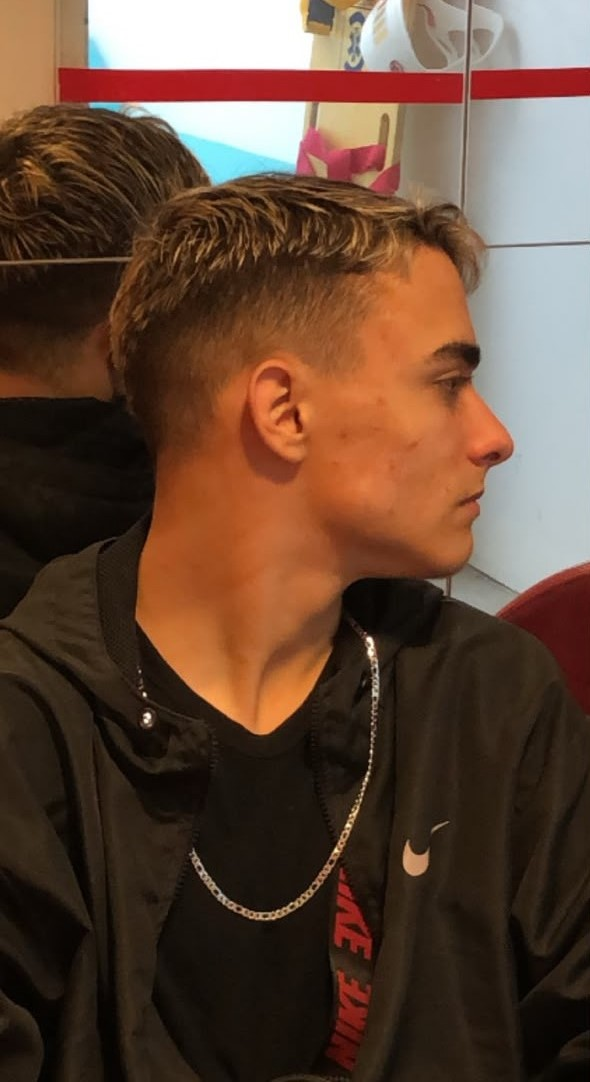
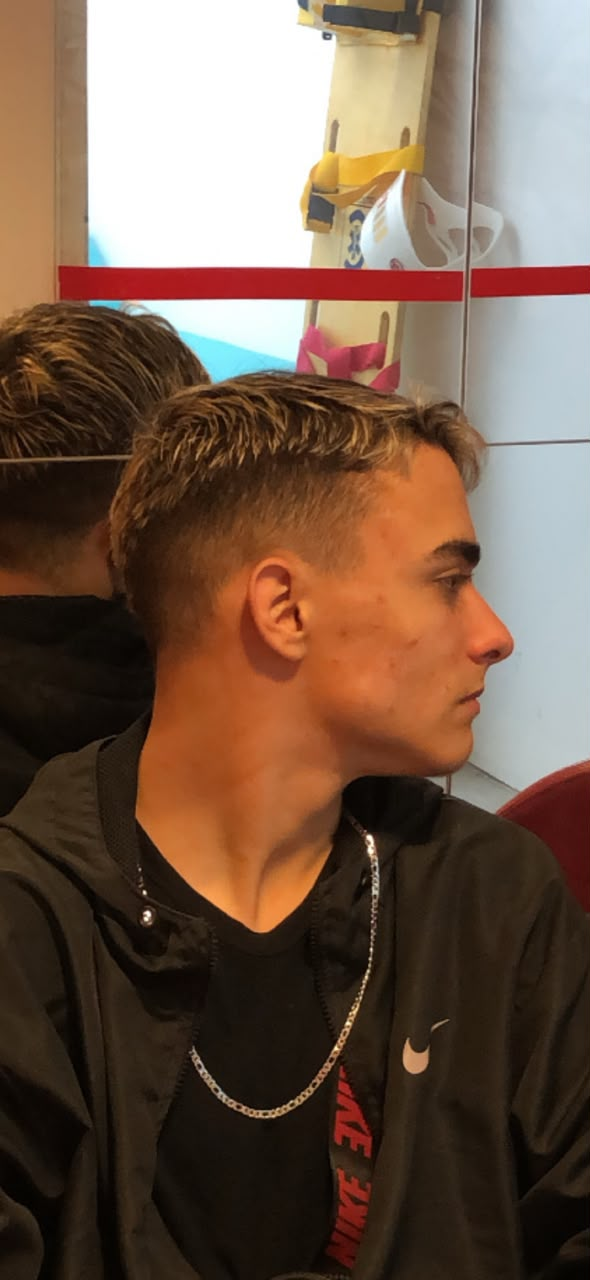
Edher
Melhorias

diff --git a/index.html b/index.html
@@ -197,7 +197,7 @@
   .ba-stage{position:relative;border-radius:26px;overflow:hidden;border:1px solid var(--line-strong);aspect-ratio:4/5;max-width:440px;margin-inline:auto;background:#0a0406}
   .ba-stage + .ba-stage{margin-top:clamp(24px,5vw,44px)}
   .ba-layer{position:absolute;inset:0;display:grid;place-items:center}
-  .ba-img{position:absolute;inset:0;width:100%;height:100%;object-fit:cover;object-position:50% 22%}
+  .ba-img{position:absolute;inset:0;background-repeat:no-repeat;background-position:50% 25%;background-size:cover}
   .ba-before .ba-img{filter:grayscale(.35) contrast(.96) brightness(.94)}
   .figure{position:relative;width:min(38%,240px);aspect-ratio:3/5;border-radius:120px 120px 40px 40px}
   .ba-before{background:linear-gradient(180deg,#161014,#0b080b)}
@@ -437,49 +437,13 @@
       <h2>5 áreas, <em>um</em> glow up de verdade</h2>
     </div>
     <p class="lead" style="margin-top:-14px;margin-bottom:clamp(26px,5vw,50px)" data-reveal>As 5 áreas do seu glow up: <b style="color:var(--ink)">skincare, cabelo, corpo, estilo e mente</b>. Um passo de cada vez, sem enrolação.</p>
-    <div class="method-grid" id="methodGrid">
-      <article class="pillar" data-reveal>
-        <span class="num">01</span>
-        <span class="ic"><svg viewBox="0 0 24 24" fill="none"><path d="M12 3s6 6.6 6 11a6 6 0 0 1-12 0c0-4.4 6-11 6-11Z" stroke="currentColor" stroke-width="1.6"/></svg></span>
-        <h3>Skincare</h3>
-        <p>Rotina de pele descomplicada. É aquele glow que todo mundo nota de longe.</p>
-      </article>
-      <article class="pillar d1" data-reveal>
-        <span class="num">02</span>
-        <span class="ic"><svg viewBox="0 0 24 24" fill="none"><path d="M4 14c0-6 4-10 8-10s8 4 8 10c0 3-2 6-8 6s-8-3-8-6Z" stroke="currentColor" stroke-width="1.6"/><path d="M9 20v-3M15 20v-3" stroke="currentColor" stroke-width="1.6" stroke-linecap="round"/></svg></span>
-        <h3>Cabelo &amp; corte</h3>
-        <p>O corte certo pro seu rosto e como manter. É o detalhe que muda tudo — real.</p>
-      </article>
-      <article class="pillar d2" data-reveal>
-        <span class="num">03</span>
-        <span class="ic"><svg viewBox="0 0 24 24" fill="none"><path d="M6 4v4M18 4v4M6 16v4M18 16v4M6 8h12M6 16h12M4 8h4M16 8h4M4 16h4M16 16h4" stroke="currentColor" stroke-width="1.6" stroke-linecap="round"/></svg></span>
-        <h3>Corpo &amp; treino</h3>
-        <p>Treino que cabe na sua rotina. Mais postura, mais presença, zero desculpa.</p>
-      </article>
-      <article class="pillar" data-reveal>
-        <span class="num">04</span>
-        <span class="ic"><svg viewBox="0 0 24 24" fill="none"><path d="M12 3l2 6h6l-5 4 2 6-5-4-5 4 2-6-5-4h6l2-6Z" stroke="currentColor" stroke-width="1.6" stroke-linejoin="round"/></svg></span>
-        <h3>Estilo &amp; imagem</h3>
-        <p>Roupas e cores que são a sua cara. Estiloso sem gastar rios de dinheiro.</p>
-      </article>
-      <article class="pillar d1" data-reveal>
-        <span class="num">05</span>
-        <span class="ic"><svg viewBox="0 0 24 24" fill="none"><path d="M12 4a5 5 0 0 1 5 5c0 2-1 3-2 4v3H9v-3c-1-1-2-2-2-4a5 5 0 0 1 5-5Z" stroke="currentColor" stroke-width="1.6" stroke-linejoin="round"/><path d="M9.5 20h5" stroke="currentColor" stroke-width="1.6" stroke-linecap="round"/></svg></span>
-        <h3>Mente &amp; confiança</h3>
-        <p>A base do glow up: hábitos, foco e confiança pra segurar tudo.</p>
-      </article>
-      <article class="pillar d2" data-reveal style="display:grid;place-content:center;text-align:center;background:linear-gradient(150deg,rgba(255,35,51,.18),rgba(176,13,28,.08))">
-        <div class="serif" style="font-size:1.6rem;color:var(--red-soft)">+ acompanhamento<br>e comunidade</div>
-        <p style="margin-top:10px;color:var(--ink-dim);transform:none">Você nunca faz sozinho.</p>
-      </article>
-    </div>
   </section>
 
   <!-- PAREDE VIVA — COLETÂNEA DE VÍDEOS -->
   <section class="wrap" id="videos">
     <div class="shead" data-reveal>
       <span class="eyebrow">Provas reais</span>
-      <h2>Vê com os <em>próprios olhos</em></h2>
+      <h2>Veja com os <em>próprios olhos</em></h2>
     </div>
     <p class="lead" style="margin-top:-14px;margin-bottom:clamp(24px,4vw,40px)" data-reveal>Transformações de gente de verdade — uma por área. Arrasta pro lado e escolhe o que quer ver.</p>
 
@@ -540,16 +504,16 @@
       <h2>Role e veja o <em>depois</em> aparecer</h2>
     </div>
     <div class="ba-stage" data-reveal data-antes="assets/par1-antes.jpg" data-depois="assets/par1-depois.jpg">
-      <div class="ba-layer ba-before"><div class="figure"></div><img class="ba-img ba-img-before" alt="Antes da transformação" decoding="async" /></div>
-      <div class="ba-layer ba-after"><div class="figure"></div><img class="ba-img ba-img-after" alt="Depois da transformação" decoding="async" /></div>
+      <div class="ba-layer ba-before"><div class="figure"></div><div class="ba-img ba-img-before" role="img" aria-label="Antes da transformação" style="background-position:50% 7%;background-size:192%"></div></div>
+      <div class="ba-layer ba-after"><div class="figure"></div><div class="ba-img ba-img-after" role="img" aria-label="Depois da transformação" style="background-position:50% 30%;background-size:100%"></div></div>
       <button type="button" class="ba-tag b ba-antes" aria-pressed="false">Antes</button>
       <button type="button" class="ba-tag a ba-depois" aria-pressed="false">Depois</button>
       <div class="ba-handle"><svg class="ba-grip" viewBox="0 0 24 24" fill="none" aria-hidden="true"><path d="M9.5 8l-4 4 4 4M14.5 8l4 4-4 4" stroke="currentColor" stroke-width="2" stroke-linecap="round" stroke-linejoin="round"/></svg></div>
     </div>
 
     <div class="ba-stage" data-reveal data-antes="assets/par2-antes.jpg" data-depois="assets/par2-depois.jpg">
-      <div class="ba-layer ba-before"><div class="figure"></div><img class="ba-img ba-img-before" alt="Antes da transformação" decoding="async" /></div>
-      <div class="ba-layer ba-after"><div class="figure"></div><img class="ba-img ba-img-after" alt="Depois da transformação" decoding="async" /></div>
+      <div class="ba-layer ba-before"><div class="figure"></div><div class="ba-img ba-img-before" role="img" aria-label="Antes da transformação" style="background-position:50% 49%;background-size:110%"></div></div>
+      <div class="ba-layer ba-after"><div class="figure"></div><div class="ba-img ba-img-after" role="img" aria-label="Depois da transformação" style="background-position:50% 30%;background-size:100%"></div></div>
       <button type="button" class="ba-tag b ba-antes" aria-pressed="false">Antes</button>
       <button type="button" class="ba-tag a ba-depois" aria-pressed="false">Depois</button>
       <div class="ba-handle"><svg class="ba-grip" viewBox="0 0 24 24" fill="none" aria-hidden="true"><path d="M9.5 8l-4 4 4 4M14.5 8l4 4-4 4" stroke="currentColor" stroke-width="2" stroke-linecap="round" stroke-linejoin="round"/></svg></div>
@@ -838,7 +802,7 @@
      "varying float vD; varying float vR; varying vec2 vC;",
      "void main(){",
      " vec3 ac=aCenter;",
-     " float az=atan(ac.z, ac.x);",              // agrupa a longitude em 5 constelações
+     " float az=atan(ac.z, ac.x+0.0001);",       // agrupa a longitude em 5 constelações (guarda contra (0,0))
      " float sect=1.2566371;",                   // 2π/5
      " float naz=mix(az, floor(az/sect+0.5)*sect, uCluster*0.85);",
      " float hor=length(vec2(ac.x, ac.z));",
@@ -873,32 +837,29 @@
      " float a=soft*(0.14+0.66*vD)*(0.55+0.6*shell)*uAlpha;",
      " gl_FragColor=vec4(col,a);",
      "}"].join("\n");
-    function sh(t,s){ var o=g.createShader(t); g.shaderSource(o,s); g.compileShader(o); return g.getShaderParameter(o,g.COMPILE_STATUS)?o:null; }
+    function sh(t,s){ var o=g.createShader(t); g.shaderSource(o,s); g.compileShader(o);
+      if(!g.getShaderParameter(o,g.COMPILE_STATUS)){ try{ console.warn("hero3d shader falhou:", g.getShaderInfoLog(o)); }catch(_){} return null; } return o; }
     var v=sh(g.VERTEX_SHADER,vsrc), f=sh(g.FRAGMENT_SHADER,fsrc);
     if(!v||!f){ c.style.display="none"; return; }
     var pr=g.createProgram(); g.attachShader(pr,v); g.attachShader(pr,f); g.linkProgram(pr);
-    if(!g.getProgramParameter(pr,g.LINK_STATUS)){ c.style.display="none"; return; }
+    if(!g.getProgramParameter(pr,g.LINK_STATUS)){ try{ console.warn("hero3d link falhou:", g.getProgramInfoLog(pr)); }catch(_){} c.style.display="none"; return; }
     g.useProgram(pr);
     // cada partícula = 2 triângulos (6 vértices)
-    var N=isTouch?2600:10000;
+    var N=isTouch?2600:17000;
     var corners=[-1,-1, 1,-1, -1,1,  -1,1, 1,-1, 1,1];
     var V=N*6;
     var aCenter=new Float32Array(V*3), aCorner=new Float32Array(V*2), aSeed=new Float32Array(V), aPrism=new Float32Array(V*3);
-    // prisma triangular: triângulo equilátero no plano XY, extrudado ao longo de Z
-    var PR=0.98, PD=0.62;
-    var TAx=0, TAy=PR, TBx=-PR*0.8660254, TBy=-PR*0.5, TCx=PR*0.8660254, TCy=-PR*0.5;
+    // bipirâmide triangular: triângulo equilátero (equador no plano XZ) + 2 ápices em ±Y
+    var BR=0.86, BH=1.12;
+    var be0=[BR,0,0], be1=[-BR*0.5,0,BR*0.8660254], be2=[-BR*0.5,0,-BR*0.8660254];
+    var bAp=[0,BH,0], bBp=[0,-BH,0];
+    var BF=[ [be0,be1,bAp],[be1,be2,bAp],[be2,be0,bAp], [be1,be0,bBp],[be2,be1,bBp],[be0,be2,bBp] ]; // 6 faces triangulares
     function prismPoint(){
-      var x,y,z;
-      if(Math.random()<0.26){                       // tampas triangulares (frente/trás)
-        var u=Math.random(), vv=Math.random(); if(u+vv>1){ u=1-u; vv=1-vv; }
-        x=TAx+(TBx-TAx)*u+(TCx-TAx)*vv; y=TAy+(TBy-TAy)*u+(TCy-TAy)*vv;
-        z=(Math.random()<0.5?-PD:PD);
-      } else {                                       // 3 faces retangulares laterais
-        var e=Math.floor(Math.random()*3), x0,y0,x1,y1;
-        if(e===0){ x0=TAx;y0=TAy;x1=TBx;y1=TBy; } else if(e===1){ x0=TBx;y0=TBy;x1=TCx;y1=TCy; } else { x0=TCx;y0=TCy;x1=TAx;y1=TAy; }
-        var t=Math.random(); x=x0+(x1-x0)*t; y=y0+(y1-y0)*t; z=-PD+Math.random()*2*PD;
-      }
-      return [x,y,z];
+      var f=BF[(Math.random()*6)|0], P0=f[0],P1=f[1],P2=f[2];
+      var u=Math.random(), v=Math.random(); if(u+v>1){ u=1-u; v=1-v; }
+      return [ P0[0]+(P1[0]-P0[0])*u+(P2[0]-P0[0])*v,
+               P0[1]+(P1[1]-P0[1])*u+(P2[1]-P0[1])*v,
+               P0[2]+(P1[2]-P0[2])*u+(P2[2]-P0[2])*v ];
     }
     for(var i=0;i<N;i++){
       var y=1-(i/(N-1))*2, rad=Math.sqrt(Math.max(0.0,1-y*y)), th=i*2.399963, rr=0.62+0.38*Math.random();
@@ -918,8 +879,8 @@
         uT=g.getUniformLocation(pr,"uTime"), uAlpha=g.getUniformLocation(pr,"uAlpha"),
         uDisp=g.getUniformLocation(pr,"uDisp"), uPrism=g.getUniformLocation(pr,"uPrism"), uSwirl=g.getUniformLocation(pr,"uSwirl"), uCluster=g.getUniformLocation(pr,"uCluster");
     g.enable(g.BLEND); g.blendFunc(g.SRC_ALPHA,g.ONE); g.clearColor(0,0,0,0);
-    var gdpr=Math.min(window.devicePixelRatio||1, isTouch?1.25:1.5), gscale=isTouch?0.7:0.85, R=0.95, sx=R, sy=R, aspect=1, pr_ndc=0.02;
-    var basePx=isTouch?5.2:7.5;   // diâmetro da partícula em px de buffer
+    var gdpr=Math.min(window.devicePixelRatio||1, isTouch?1.25:2), gscale=isTouch?0.7:1.0, R=0.95, sx=R, sy=R, aspect=1, pr_ndc=0.02;
+    var basePx=isTouch?5.2:(10*gdpr);   // diâmetro da partícula em px de buffer (escala com o DPI → nitidez constante)
     function gres(){ var w=Math.max(1,Math.floor(c.clientWidth*gdpr*gscale)), h=Math.max(1,Math.floor(c.clientHeight*gdpr*gscale));
       c.width=w; c.height=h; g.viewport(0,0,w,h); aspect=w/h;
       if(w>=h){ sx=R*h/w; sy=R; } else { sx=R; sy=R*w/h; }
@@ -938,15 +899,15 @@
       /* progCur (0..1) é o scroll global — dita a coreografia da esfera por capítulo */
       var P=progCur;
       var disp=0.62*sstep(0.05,0.40,P)*(1.0-sstep(0.58,0.95,P)); // dispersa no meio, reforma nas pontas
-      var prism=sstep(0.60,0.95,P);                               // condensa num prisma no fim da página
-      var swirl=(0.12+P*1.5)*(1.0-prism);                         // solta o giro ao formar o prisma (facetas limpas)
+      var prism=sstep(0.60,0.95,P);                               // condensa numa bipirâmide triangular no fim da página
+      var swirl=(0.12+P*1.5)*(1.0-prism);                         // solta o giro ao formar a bipirâmide (facetas limpas)
       var mob=isTouch?0.35:0.7;
       var ry=tt*0.20+mx*mob*(1.0-prism*0.5), rx=0.30+my*0.40+Math.sin(tt*0.25)*0.08;
       g.uniformMatrix3fv(uRot,false,mrot(ry,rx));
       g.uniform2f(uScale,sx,sy); g.uniform1f(uPointR,pr_ndc); g.uniform1f(uAspect,aspect);
       g.uniform1f(uT,tt);
       g.uniform1f(uDisp,disp); g.uniform1f(uPrism,prism); g.uniform1f(uSwirl,swirl); g.uniform1f(uCluster,metCur*(1.0-prism));
-      g.uniform1f(uAlpha, isTouch?1.0:(0.40+0.22*P));
+      g.uniform1f(uAlpha, isTouch?1.0:(0.82+0.18*P));
       g.drawArrays(g.TRIANGLES,0,V);
       if(awake) requestAnimationFrame(gframe);
     }
@@ -1031,10 +992,9 @@
     var btnB=stage.querySelector(".ba-antes"), btnA=stage.querySelector(".ba-depois");
     var imgB=stage.querySelector(".ba-img-before"), imgA=stage.querySelector(".ba-img-after");
     var manual=null, cur=0, raf=false;
-    /* carrega as fotos reais; se o arquivo não existir, cai no fallback (gradiente) */
-    [imgB,imgA].forEach(function(im){ if(im) im.addEventListener("error",function(){ im.style.display="none"; }); });
-    if(imgB) imgB.src=stage.getAttribute("data-antes");
-    if(imgA) imgA.src=stage.getAttribute("data-depois");
+    /* carrega as fotos reais como background (controle independente de zoom/posição) */
+    if(imgB) imgB.style.backgroundImage="url('"+stage.getAttribute("data-antes")+"')";
+    if(imgA) imgA.style.backgroundImage="url('"+stage.getAttribute("data-depois")+"')";
 
     function scrollVal(){ var r=stage.getBoundingClientRect(), vh=window.innerHeight;
       var p=(vh-r.top)/(vh+r.height); return Math.min(Math.max((p-0.15)/0.7,0),1); }
@@ -1070,6 +1030,7 @@
     cur=scrollVal(); apply(); kick();
   }
   document.querySelectorAll(".ba-stage").forEach(initBA);
+
 
   /* ---------------- parede viva (coverflow de vídeos) ---------------- */
   (function(){
@@ -1206,26 +1167,6 @@
   document.querySelectorAll("[data-goto]").forEach(function(b){ b.addEventListener("click",function(){
     var t=document.querySelector(b.getAttribute("data-goto")); if(t)t.scrollIntoView({behavior:reduce?"auto":"smooth",block:"start"}); }); });
 
-  /* ---------------- smooth scroll com inércia (desktop / ponteiro fino) ---------------- */
-  if(!isTouch && !reduce && window.matchMedia && window.matchMedia("(pointer:fine)").matches){
-    var ssTarget=window.scrollY, ssCur=window.scrollY, ssRAF=false, ssLast=window.scrollY;
-    function ssMax(){ return Math.max(0, document.documentElement.scrollHeight - window.innerHeight); }
-    function ssLoop(){
-      if(Math.abs(window.scrollY-ssLast)>2){ ssCur=ssTarget=window.scrollY; }   /* scroll externo → ressincroniza */
-      ssCur+=(ssTarget-ssCur)*0.16;
-      if(Math.abs(ssTarget-ssCur)<0.4){ ssCur=ssTarget; ssRAF=false; }
-      window.scrollTo(0,ssCur); ssLast=Math.round(ssCur);
-      if(ssRAF) requestAnimationFrame(ssLoop);
-    }
-    function ssKick(){ if(!ssRAF){ ssRAF=true; requestAnimationFrame(ssLoop); } }
-    window.addEventListener("wheel",function(e){
-      if(e.ctrlKey) return;                         /* pinch-zoom */
-      e.preventDefault();
-      var d=e.deltaY; if(e.deltaMode===1) d*=16; else if(e.deltaMode===2) d*=window.innerHeight;
-      ssTarget=Math.max(0,Math.min(ssMax(), ssTarget+d)); ssKick();
-    },{passive:false});
-    window.addEventListener("scroll",function(){ if(!ssRAF){ ssTarget=ssCur=window.scrollY; ssLast=Math.round(window.scrollY); } },{passive:true});
-  }
 })();
 </script>
 
